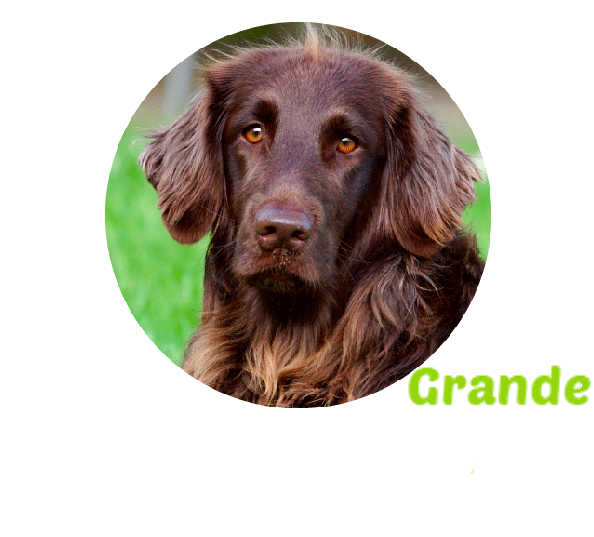
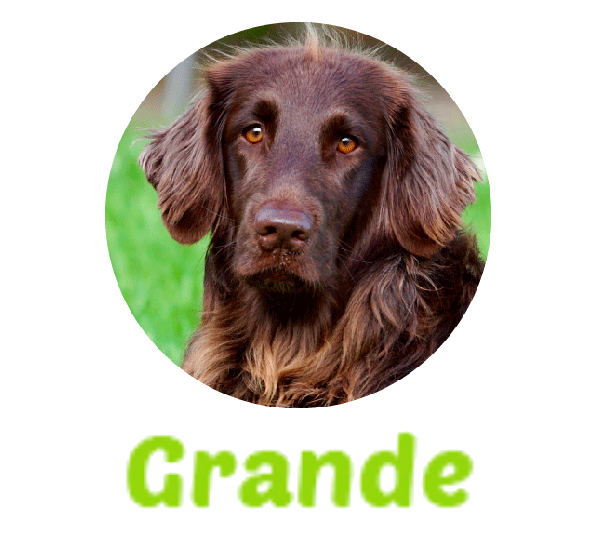
responsive fase 1

Changed region(s): [[0.2121, 0.8045, 0.8182, 0.9534], [0.6667, 0.6853, 1.0, 0.7747]]

diff --git a/wp-content/themes/kmibox/assets/css/kmibox.css b/wp-content/themes/kmibox/assets/css/kmibox.css
@@ -312,6 +312,10 @@ select{
 	font-family: caviar_dremasregular;
 }
 
+.postone{
+	font-family: PoetsenOne_Regular;
+}
+
 .btn-sm-kmibox-default{
 	background: #94d400!important;
 }	
@@ -1621,6 +1625,7 @@ select{
 	}
 	.comprar_box {
 	    top: -10%!important;
+	    height: calc( 100% - 7px ) !important;
 	}
 
 	.comprar_footer p {

diff --git a/wp-content/themes/kmibox/assets/css/quiero.css b/wp-content/themes/kmibox/assets/css/quiero.css
@@ -435,6 +435,7 @@ span.separador_presentacion {
     height: 420px !important;
     top: 50%;
     margin-top: -210px;
+    width: 100%;
 }
 
 .comprar_footer {
@@ -460,6 +461,7 @@ span.separador_presentacion {
     height: 420px !important;
     top: 50%;
     margin-top: -210px;
+    width: 100%
 }
    
 }

diff --git a/wp-content/themes/kmibox/quiero-mi-marca.php b/wp-content/themes/kmibox/quiero-mi-marca.php
@@ -29,9 +29,9 @@
 						<img src="'.get_home_url().'/img/edad/Adulto.png"  class="img-responsive"  width="400px" id="Grande" />
 					</div>
 					<div id="carrousel_responsive" class="vlz_carrousel hidden-md hidden-sm hidden-lg" style="margin-top:12%"> 
-						<img src="'.get_home_url().'/img/edad/Cachorro.png"  class="img-responsive" width="250px" id="Pequeño" />
-						<img src="'.get_home_url().'/img/edad/Mediano.png"  class="img-responsive" width="250px" id="Mediano" />	
-						<img src="'.get_home_url().'/img/edad/Adulto.png"  class="img-responsive"  width="250px" id="Grande" />
+						<img src="'.get_home_url().'/img/edad/Cachorro-resp.png"  class="img-responsive" width="250px" id="Pequeño" />
+						<img src="'.get_home_url().'/img/edad/Mediano-resp.png"  class="img-responsive" width="250px" id="Mediano" />	
+						<img src="'.get_home_url().'/img/edad/Adulto-resp.png"  class="img-responsive"  width="250px" id="Grande" />
 					</div>
 				</div>
 				<div id="edad" class="comprar_footer hidden-xs">
@@ -159,25 +159,25 @@
 					<div id="planes">
 						<article id="plan-Quincenal" class="text-center col-sm-4 separation-top col-xs-6">
 							<img class="img-responsive" src="'.get_home_url().'/img/Quincenal.png" width="300px" height="370px">
-							<button class="btn btn-sm-marca btn-sm-kmibox-price caviar" data-value="Quincenal" style="border: solid 2px rgb(144, 14, 156); background: #ffffff; color: #777;" > Quincenal </button>
+							<button class="btn btn-sm-marca btn-sm-kmibox-price postone" data-value="Quincenal" style="border: solid 2px rgb(144, 14, 156); background: #ffffff; color: #777;" > Quincenal </button>
 						</article>
 						<article id="plan-Mensual" class="text-center col-sm-4 separation-top col-xs-6">
 							<img class="img-responsive" src="'.get_home_url().'/img/Mensual.png" width="300px" height="370px">
-							<button class="btn btn-sm-marca btn-sm-kmibox-price caviar" data-value="Mensual" style="border: solid 2px rgb(144, 14, 156); background: #ffffff; color: #777;">Mensual</button>
+							<button class="btn btn-sm-marca btn-sm-kmibox-price postone" data-value="Mensual" style="border: solid 2px rgb(144, 14, 156); background: #ffffff; color: #777;">Mensual</button>
 						</article>
 						<!-- <article id="plan-Bimestral" class="text-center col-sm-4 separation-top col-xs-offset-3 col-xs-6 arriba"> -->
 
 						<article id="plan-Bimestral" class="text-center col-sm-4 separation-top col-xs-6 hidden-sm hidden-xs" style="display: inline-block;/*margin-left: 26%; margin-top: 7%;*/">
 							<img class="img-responsive" src="'.get_home_url().'/img/Bimestral.png" width="300px" height="370px">
-							<button class="btn btn-sm-marca btn-sm-kmibox-price caviar" data-value="Bimestral" style="border: solid 2px rgb(144, 14, 156); background: #ffffff; color: #777; margin-top: 0px">Bimestral</button>
+							<button class="btn btn-sm-marca btn-sm-kmibox-price postone" data-value="Bimestral" style="border: solid 2px rgb(144, 14, 156); background: #ffffff; color: #777; margin-top: 0px">Bimestral</button>
 						</article>
 
 						<article id="plan-Bimestral" class="text-center col-sm-4 separation-top col-xs-6 hidden-xs hidden-lg hidden-md visible-sm" style="display: inline-block;margin-top: 7%;">
 							<img class="img-responsive" src="'.get_home_url().'/img/Bimestral.png" width="300px" height="370px">
-							<button class="btn btn-sm-marca btn-sm-kmibox-price caviar" data-value="Bimestral" style="border: solid 2px rgb(144, 14, 156); background: #ffffff; color: #777;">Bimestral</button>
+							<button class="btn btn-sm-marca btn-sm-kmibox-price postone" data-value="Bimestral" style="border: solid 2px rgb(144, 14, 156); background: #ffffff; color: #777;">Bimestral</button>
 						</article>
 						<article id="plan-Bimestral" class="text-center col-sm-4 separation-top col-xs-6 hidden-sm hidden-lg hidden-md visible-xs" style="display: inline-block;margin-left:  26%;margin-top: 0%;">	<img class="img-responsive" src="'.get_home_url().'/img/Bimestral.png" width="300px" height="370px">
-							<button class="btn btn-sm-marca btn-sm-kmibox-price caviar" data-value="Bimestral" style="border: solid 2px rgb(144, 14, 156); background: #ffffff; color: #777;">Bimestral</button>
+							<button class="btn btn-sm-marca btn-sm-kmibox-price postone" data-value="Bimestral" style="border: solid 2px rgb(144, 14, 156); background: #ffffff; color: #777;">Bimestral</button>
 						</article>
 
 					</div>
